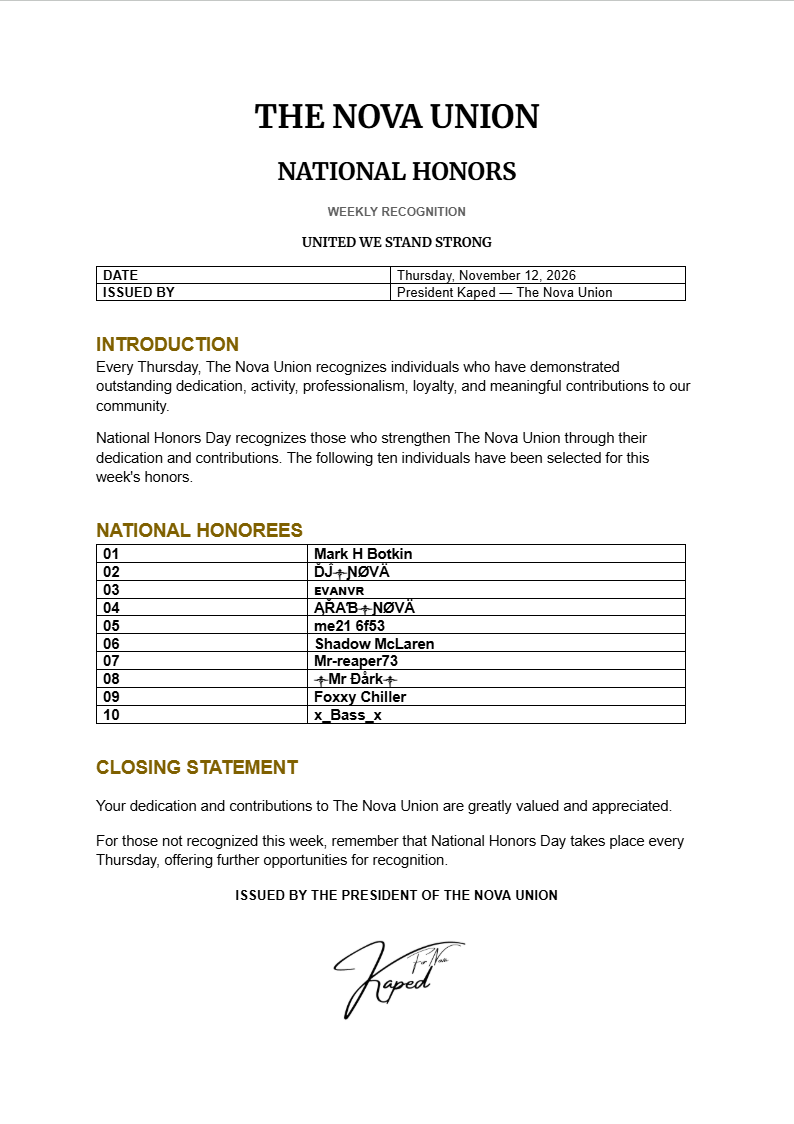
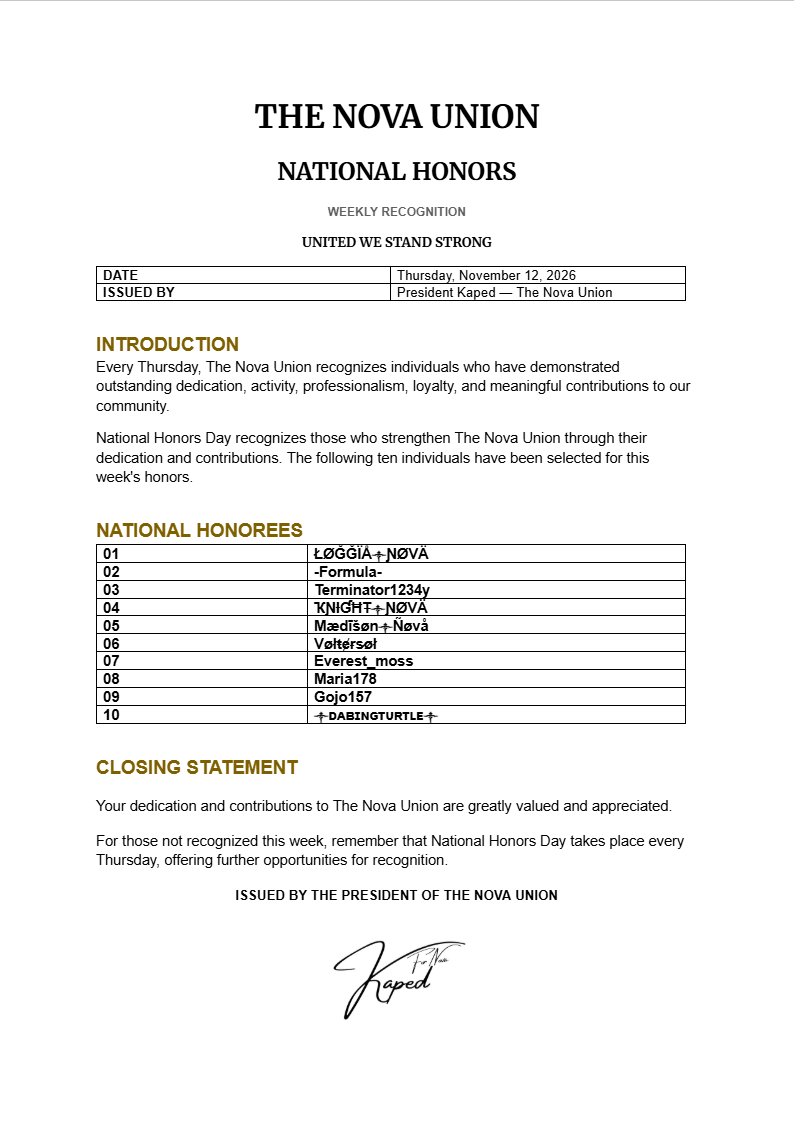
Find Us: restore full VRChat instructions with both group links on front side; use real newhonorsv1 image from Downloads

Changed region(s): [[0.3929, 0.4671, 0.5441, 0.6539]]

diff --git a/index.html b/index.html
@@ -9,8 +9,8 @@
 <link rel="preconnect" href="https://fonts.googleapis.com">
 <link rel="preconnect" href="https://fonts.gstatic.com" crossorigin>
 <link href="https://fonts.googleapis.com/css2?family=Black+Ops+One&family=Courier+Prime:ital,wght@0,400;0,700;1,400&family=Oswald:wght@500;600;700&display=swap" rel="stylesheet">
-<link rel="stylesheet" href="css/styles.css?v=31">
-<link rel="stylesheet" href="css/union-v2.css?v=31">
+<link rel="stylesheet" href="css/styles.css?v=32">
+<link rel="stylesheet" href="css/union-v2.css?v=32">
 </head>
 <body>
 
@@ -294,8 +294,11 @@
       <div class="find-us">
         <h3>IN VRCHAT</h3>
         <ul class="find-list">
-          <li><span class="find-key">NOVA UNION</span><span>The official Nova Union group on VRChat. <a href="https://vrchat.com/home/group/grp_d3e5b2c6-0691-4a49-b246-1fd6eee6eff9" target="_blank" rel="noopener">Join the Nova Union →</a></span></li>
-          <li><span class="find-key">NOVA BRIGADE</span><span>The Nova Brigade group on VRChat. <a href="https://vrchat.com/home/group/grp_78a801e6-9c94-4d8e-9854-24f562d959af" target="_blank" rel="noopener">Join the Nova Brigade →</a></span></li>
+          <li><span class="find-key">GROUPS</span><span>Join <strong>Nova Union</strong> and <strong>Nova Brigade</strong> — recruits must hold both and represent the Nova Brigade. <a href="https://vrchat.com/home/group/grp_d3e5b2c6-0691-4a49-b246-1fd6eee6eff9" target="_blank" rel="noopener">Nova Union group →</a> <a href="https://vrchat.com/home/group/grp_78a801e6-9c94-4d8e-9854-24f562d959af" target="_blank" rel="noopener">Nova Brigade group →</a></span></li>
+          <li><span class="find-key">STATUS</span><span>E-1 | Nickname | T.N.B — with the enlisted avatar.</span></li>
+          <li><span class="find-key">NATIONAL HONORS</span><span>Every Thursday — the Nova Union stands down to honor ten names.</span></li>
+          <li><span class="find-key">TRAINING</span><span>Under the official Recruitment Manual — yellow PT lines, faces, comms, and your post.</span></li>
+          <li><span class="find-key">LOOK FOR</span><span>The Nova Union star and the triquetra over spawn. That is us.</span></li>
         </ul>
       </div>
       <div class="socials">
@@ -354,7 +357,7 @@
   <div class="modal-panel news-panel" role="document"><button class="modal-close" data-close-modal aria-label="Close">&times;</button><div id="newsModalBody"><!-- rendered --></div></div>
 </div>
 
-<script src="js/data.js?v=31"></script>
-<script src="js/app.js?v=31"></script>
+<script src="js/data.js?v=32"></script>
+<script src="js/app.js?v=32"></script>
 </body>
 </html>
